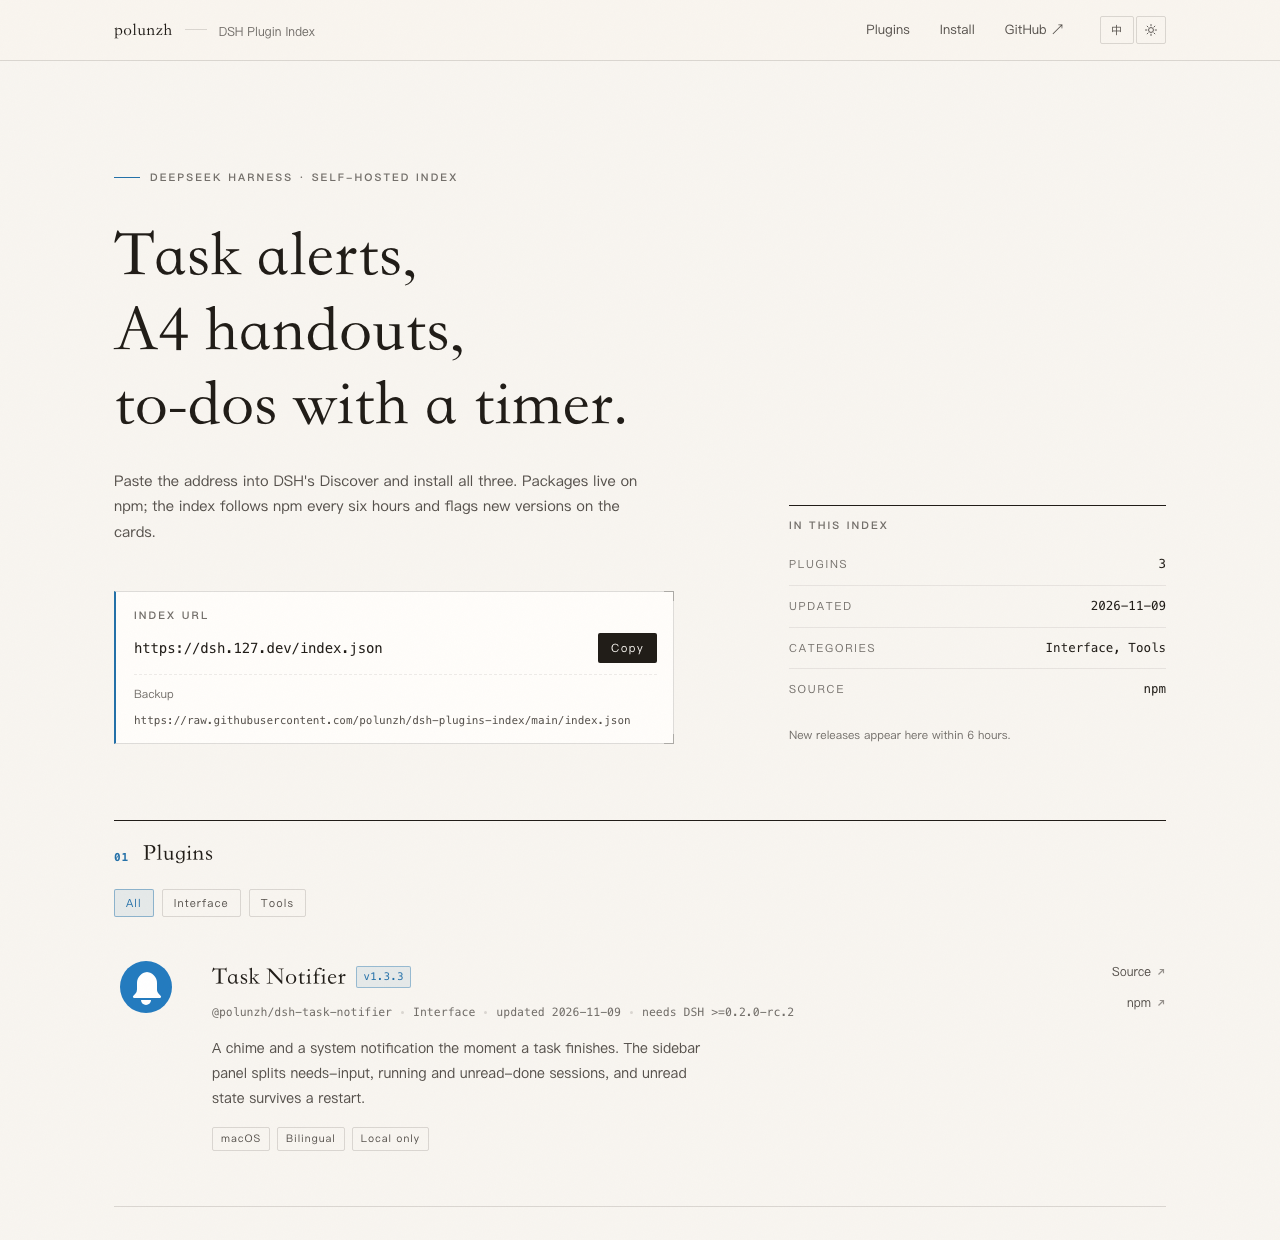
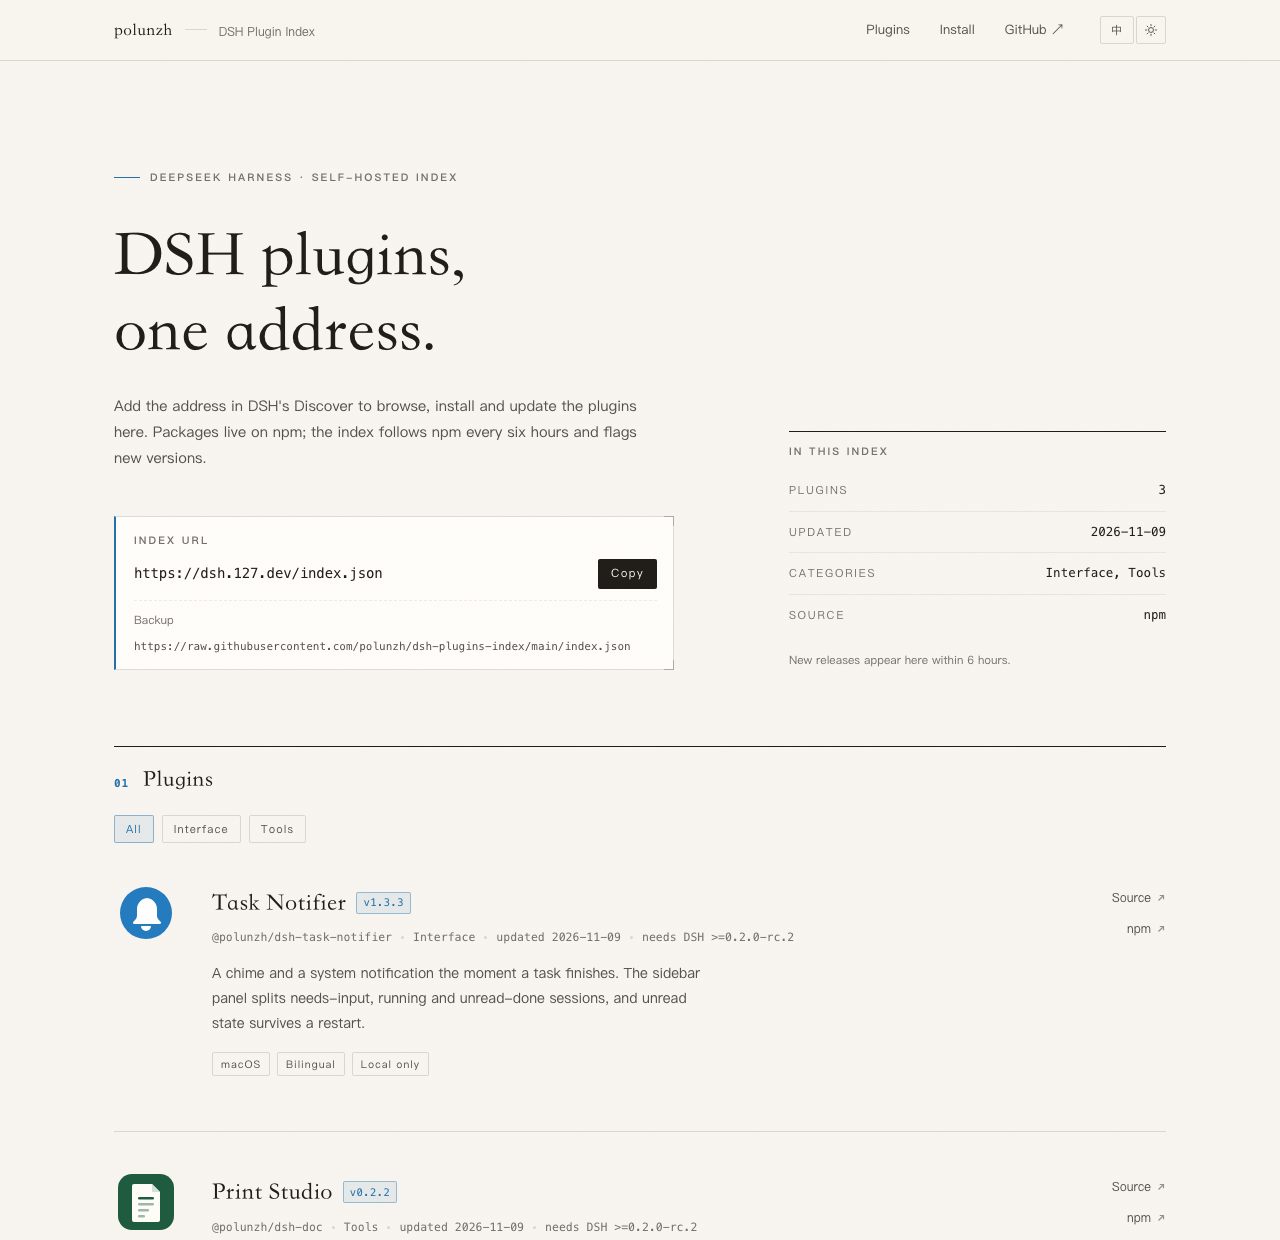
fix: 大标题改成不依赖插件清单的说法
- 标题改为"DSH 插件，一个地址装齐"，以后加插件不用再动文案
- 副标题去掉"这三个插件"，安装步骤去掉"三个插件会直接列出来"
- 索引描述改成不含具体插件名，新插件上线无需同步改

diff --git a/dist/index.html b/dist/index.html
@@ -6,10 +6,10 @@
 <meta charset="utf-8" />
 <meta name="viewport" content="width=device-width, initial-scale=1" />
 <title>polunzh 的 DSH 插件 · DSH 插件索引</title>
-<meta name="description" content="polunzh 自建的 DSH 插件索引：任务通知台、打印工坊、待办与番茄钟。加一个地址就能在「发现」里安装，包发在 npm。" />
+<meta name="description" content="polunzh 自建的 DSH 插件索引。加一个地址，就能在「发现」里浏览、安装并跟随 npm 更新。" />
 <meta property="og:type" content="website" />
 <meta property="og:title" content="polunzh 的 DSH 插件" />
-<meta property="og:description" content="polunzh 自建的 DSH 插件索引：任务通知台、打印工坊、待办与番茄钟。加一个地址就能在「发现」里安装，包发在 npm。" />
+<meta property="og:description" content="polunzh 自建的 DSH 插件索引。加一个地址，就能在「发现」里浏览、安装并跟随 npm 更新。" />
 <meta name="theme-color" content="#f7f5f0" media="(prefers-color-scheme: light)" />
 <meta name="theme-color" content="#1c1c1b" media="(prefers-color-scheme: dark)" />
 <link rel="icon" href="/assets/favicon.svg" type="image/svg+xml" />
@@ -539,14 +539,11 @@
   <section class="hero">
     <div class="hero__lead">
       <p class="cap eyebrow rise" style="--d:40ms"><span data-zh="DEEPSEEK HARNESS · 自建插件索引" data-en="DEEPSEEK HARNESS · SELF-HOSTED INDEX">DEEPSEEK HARNESS · 自建插件索引</span></p>
-      <h1 class="rise" style="--d:110ms"><span data-zh="任务提醒、
-讲义打印、
-待办与番茄钟。" data-en="Task alerts,
-A4 handouts,
-to-dos with a timer.">任务提醒、
-讲义打印、
-待办与番茄钟。</span></h1>
-      <p class="lede rise" style="--d:190ms"><span data-zh="把地址加进 DSH 的「发现」，这三个插件就能直接装。插件包在 npm 上，索引每 6 小时跟着刷新，新版本会在卡片上提示。" data-en="Paste the address into DSH's Discover and install all three. Packages live on npm; the index follows npm every six hours and flags new versions on the cards.">把地址加进 DSH 的「发现」，这三个插件就能直接装。插件包在 npm 上，索引每 6 小时跟着刷新，新版本会在卡片上提示。</span></p>
+      <h1 class="rise" style="--d:110ms"><span data-zh="DSH 插件，
+一个地址装齐。" data-en="DSH plugins,
+one address.">DSH 插件，
+一个地址装齐。</span></h1>
+      <p class="lede rise" style="--d:190ms"><span data-zh="把地址加进 DSH 的「发现」，就能浏览、安装和更新这里的插件。包发在 npm，索引每 6 小时跟着刷新，新版本会提示。" data-en="Add the address in DSH's Discover to browse, install and update the plugins here. Packages live on npm; the index follows npm every six hours and flags new versions.">把地址加进 DSH 的「发现」，就能浏览、安装和更新这里的插件。包发在 npm，索引每 6 小时跟着刷新，新版本会提示。</span></p>
 
       <div class="src rise" style="--d:270ms">
         <div class="src__head">
@@ -609,7 +606,7 @@ to-dos with a timer.">任务提醒、
       <li>
         <span class="steps__num">02</span>
         <h3><span data-zh="添加索引地址" data-en="Add the index">添加索引地址</span></h3>
-        <p><span data-zh="进「发现」→「添加索引源」，粘贴地址，三个插件会直接列出来。" data-en="In Discover, choose Add index source, paste the address, and all three plugins show up.">进「发现」→「添加索引源」，粘贴地址，三个插件会直接列出来。</span></p>
+        <p><span data-zh="进「发现」→「添加索引源」，粘贴地址，收录的插件会直接列出来。" data-en="In Discover, choose Add index source, paste the address, and the plugins show up.">进「发现」→「添加索引源」，粘贴地址，收录的插件会直接列出来。</span></p>
       </li>
       <li>
         <span class="steps__num">03</span>
